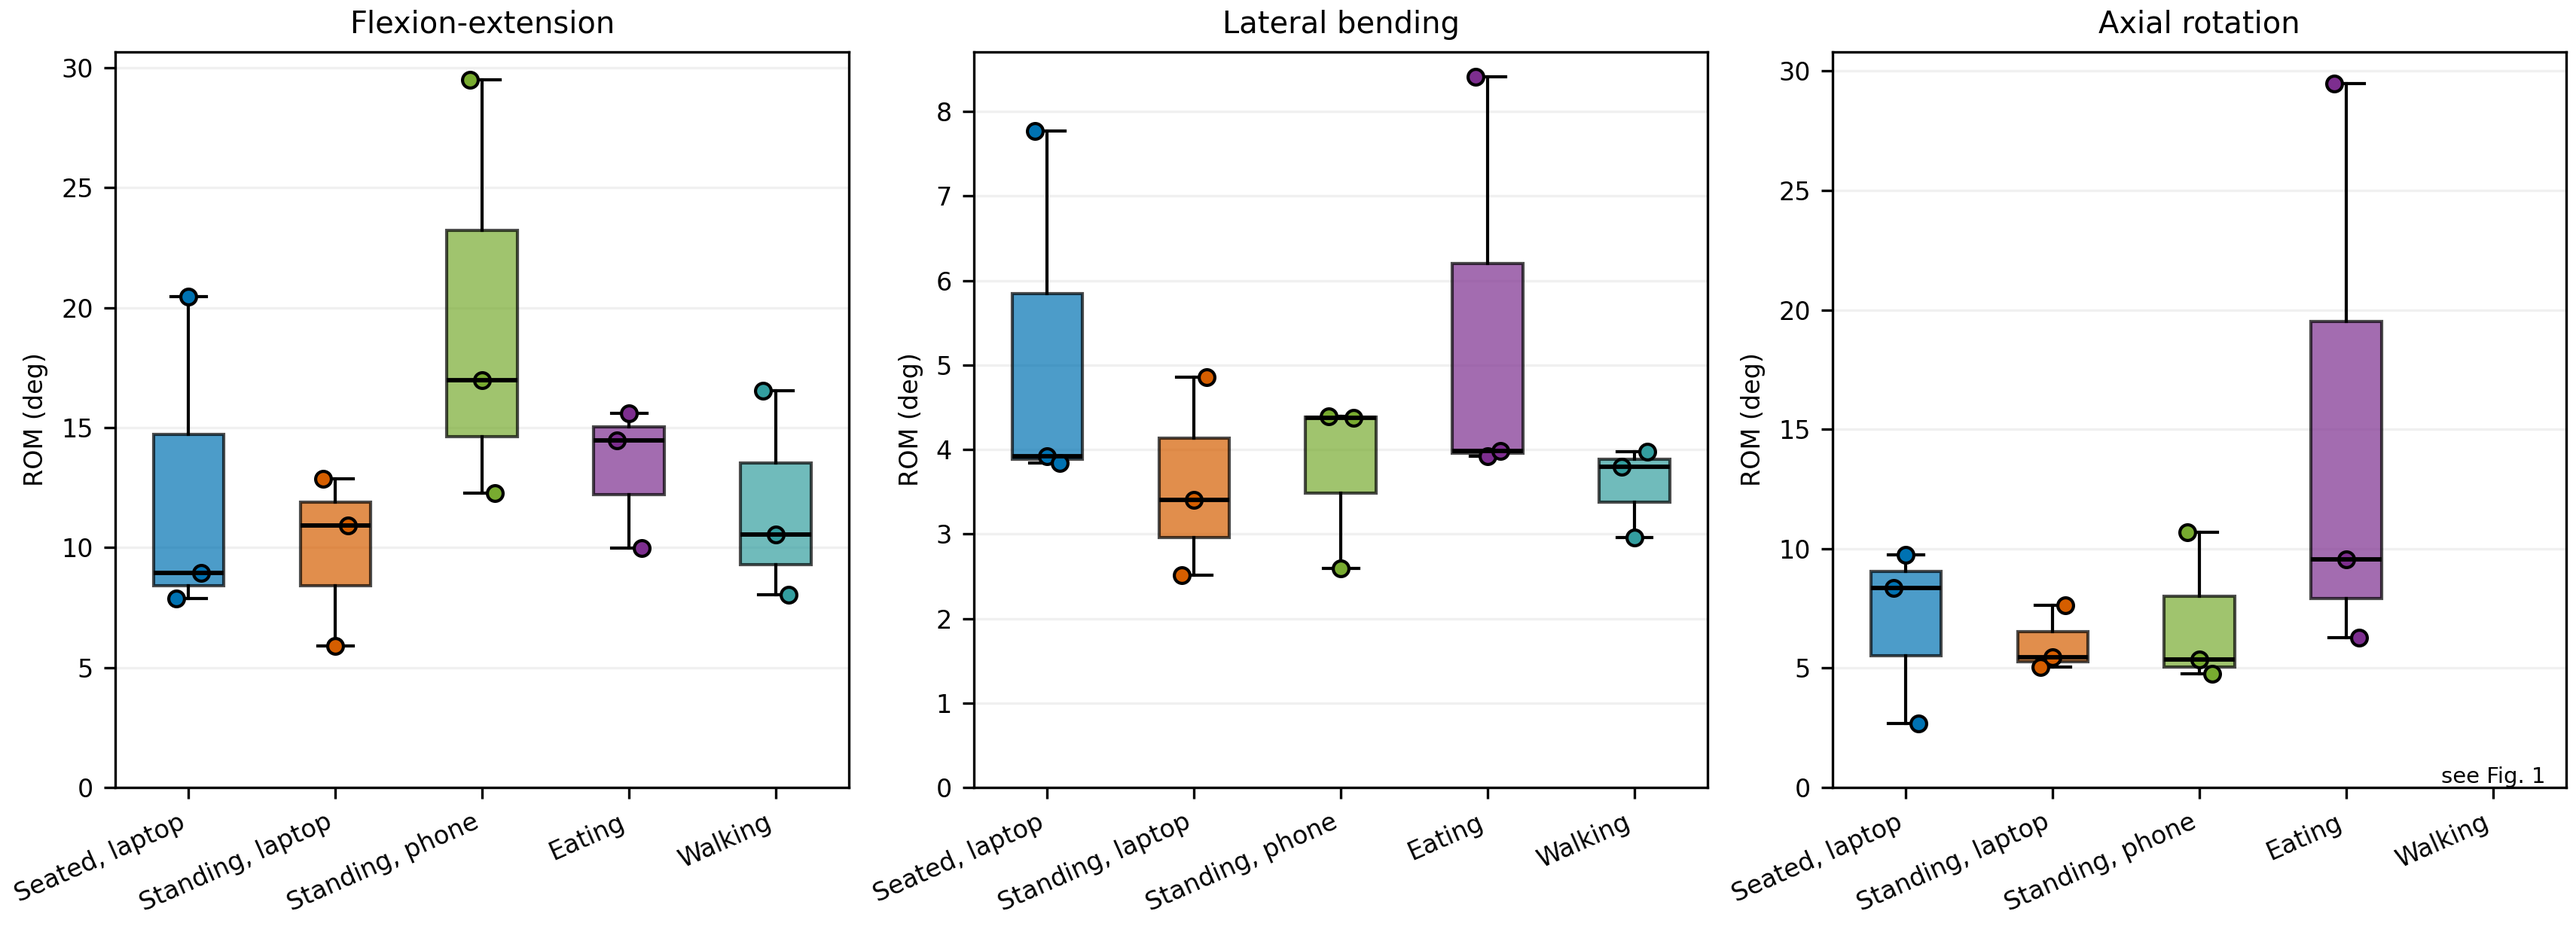
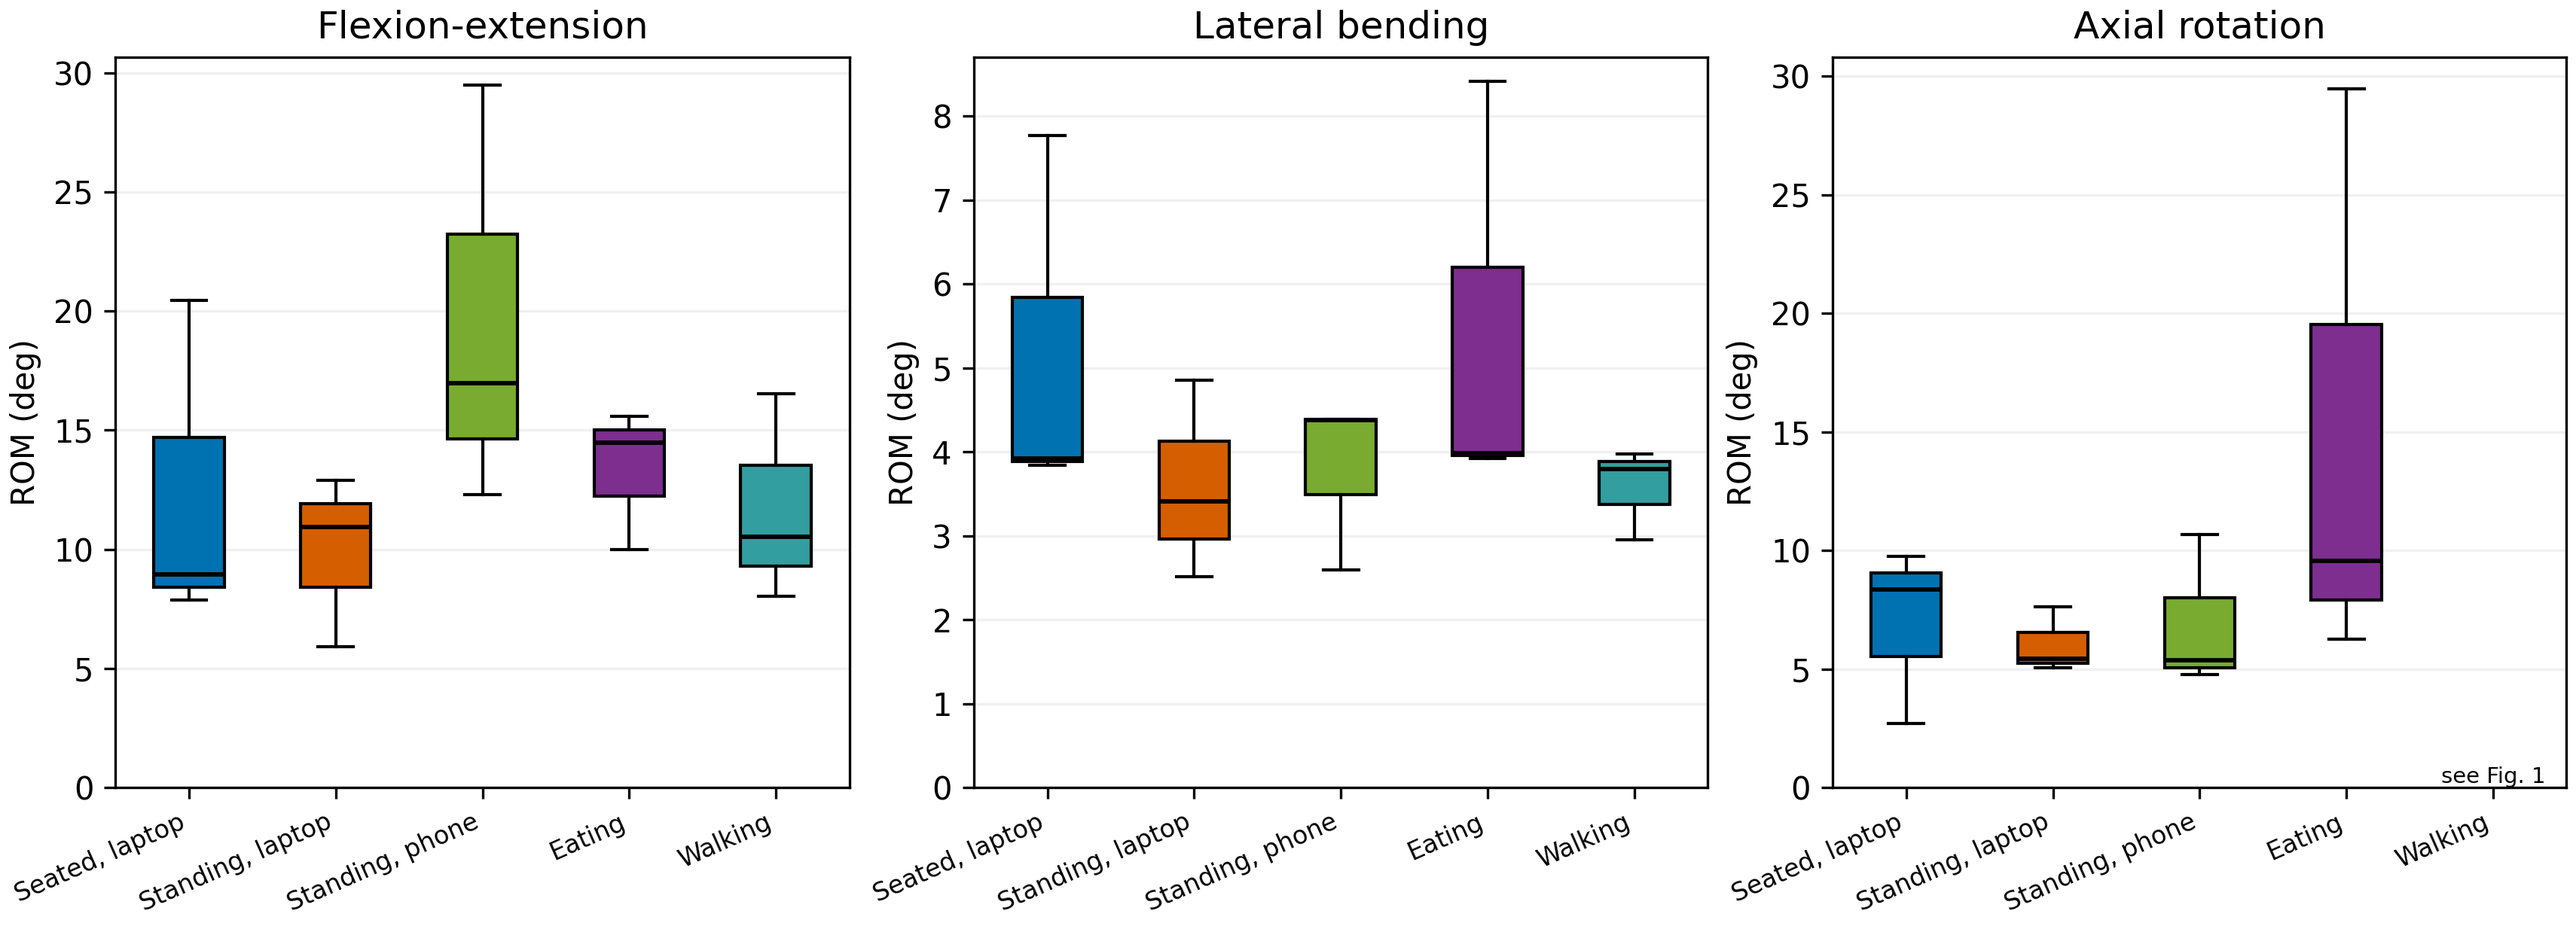
Remove trial dots from ROM box plots

diff --git a/head_rom_analysis.m b/head_rom_analysis.m
@@ -209,23 +209,17 @@ for planeIndex = 1:3
         if any(~isfinite(values))
             continue  % Walking axial rotation is displayed in Figure 1.
         end
-        % With three trials, show every point; quartiles only summarize them.
+        % Descriptive quartiles across three trial ROM values.
         q1 = (values(1)+values(2))/2;
         q3 = (values(2)+values(3))/2;
         x = taskIndex;
         patch(ax,x+[-.24 .24 .24 -.24],[q1 q1 q3 q3],c, ...
-            'FaceAlpha',.70,'EdgeColor','k','LineWidth',1)
+            'FaceAlpha',1,'EdgeColor','k','LineWidth',1)
         plot(ax,x+[-.24 .24],[values(2) values(2)],'k-','LineWidth',1.4)
         plot(ax,[x x],[values(1) q1],'k-','LineWidth',1)
         plot(ax,[x x],[q3 values(3)],'k-','LineWidth',1)
         plot(ax,x+[-.11 .11],[values(1) values(1)],'k-','LineWidth',1)
         plot(ax,x+[-.11 .11],[values(3) values(3)],'k-','LineWidth',1)
-        for trialIndex = 1:3
-            plot(ax,x+.085*(trialIndex-2), ...
-                trialROMAll(taskIndex,trialIndex,planeIndex),'o', ...
-                'Color','k','MarkerFaceColor',c,'MarkerSize',4.5, ...
-                'LineWidth',1)
-        end
     end
 
     ax.Color = 'w';

diff --git a/README.md b/README.md
@@ -50,7 +50,7 @@ Walking consists of straight paths separated by approximately 180 deg direction 
 - `TableI_results.csv` — mean and SD for all three head ROM planes, flexion-extension variance and CV, and retained data
 - `TableII_checks.csv` — per-trial sampling rate, neutral-hold SD, yaw trend, and neutral phone inclination
 - `Fig1_traces.png` and `Fig1_traces_updated.svg` — 180 s head-angle traces, including walking axial rotation with its lap turns
-- `Fig2_flexext_statistics.png` — one box per task in each plane, colored by task, with all three trial ROM values shown as dots. Each trial ROM is its 97.5th minus 2.5th percentile angle. Boxes summarize just three values, so interpret them descriptively. Walking axial angles appear in Figure 1, but walking axial ROM is excluded from Figure 2 because lap turns include whole-body rotation. Mean, SD, variance, and CV remain in `TableI_results.csv`.
+- `Fig2_flexext_statistics.png` — one box per task in each plane, with solid task colors and black outlines. The centre line is the median; boxes span the quartiles and whiskers span the minimum and maximum. Each trial ROM is its 97.5th minus 2.5th percentile angle. Boxes summarize just three values, so interpret them descriptively. Walking axial angles appear in Figure 1, but walking axial ROM is excluded from Figure 2 because lap turns include whole-body rotation. Mean, SD, variance, and CV remain in `TableI_results.csv`.
 
 ## Separate validation
 
